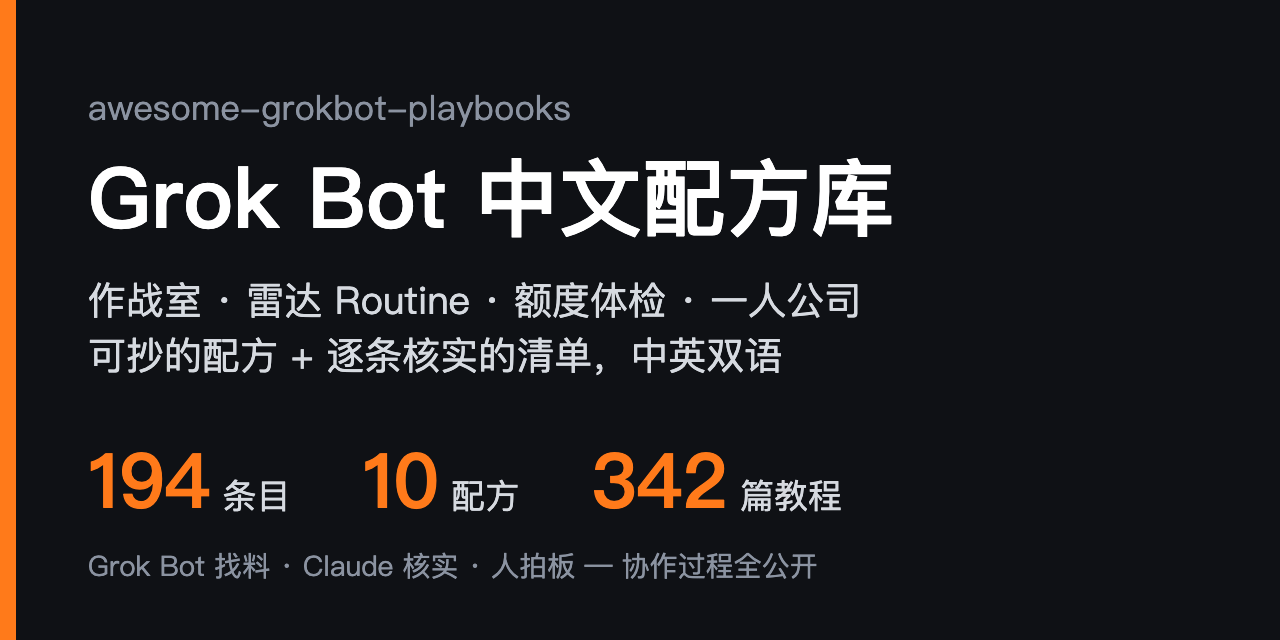
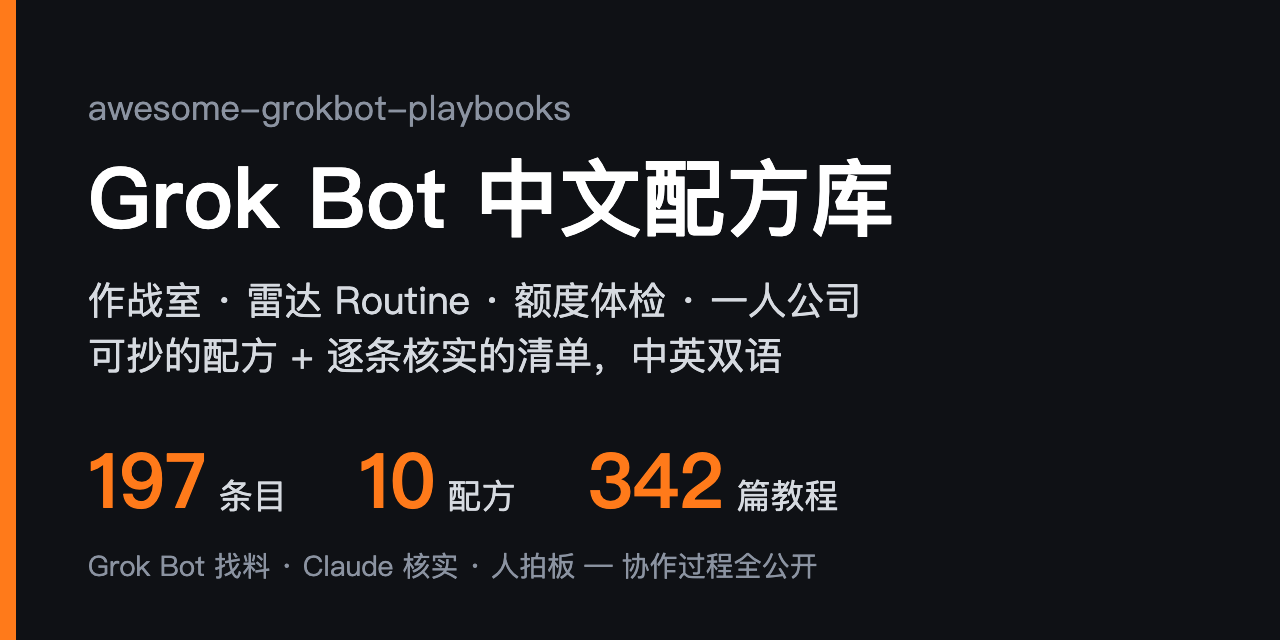
collab: loop #113 entries 194 -> 197, recheck 11-05 batch (3 in, 3 out, 13 deferred)

Changed region(s): [[0.4688, 0.7188, 0.6562, 0.8125], [0.2812, 0.7188, 0.4062, 0.8125], [0.125, 0.6875, 0.25, 0.8125]]

diff --git a/.collab/recheck.md b/.collab/recheck.md
@@ -61,16 +61,13 @@ Claude 维护。仓库没过收录门槛（见 [CONTRIBUTING.md](../CONTRIBUTING
 | [rakei076/resethook](https://github.com/rakei076/resethook) | 11-11 | 0★ · MIT · 建 10-28 · 最近提交 10-28 | 11-04 第 1 次延期：建仓后没有新提交。Codex 额度重置预告经 webhook 叫醒 bot，skill 估算能否在截止前用完再派只读 Codex 任务；安装走第三方站点 `curl \| sh` 和托管服务，过线时先读源码、确认能不能自部署，不能就拒 |
 | [huaspirit123/grokbot-visual-office](https://github.com/huaspirit123/grokbot-visual-office) | 11-11 | 0★ · Apache-2.0 · 建 10-28 · 最近提交 10-28 | 11-04 第 1 次延期：建仓后没有新提交。多 Bot 像素办公室看板：一眼看谁在干活、谁卡住、谁等你确认；纯前端无后端无 key，按 JSON Schema 喂数据，中文默认、示例数据虚构；过线时和 Olivia295/grokbot-team-monitor-UI 比一比 |
 | [gcentini02/grokbot-claude-relay](https://github.com/gcentini02/grokbot-claude-relay) | 11-11 | 1★ · MIT · 建 10-28 · 最近提交 10-28 | 11-04 第 1 次延期：建仓后没有新提交。同一台电脑上 Claude Code 和 Grok Bot 桌面端的本地信箱 MCP：Rust、无网络监听、单 SQLite、各自 token、限速和敏感词告警；和本仓 `.collab/` 思路相近 |
-| [Yolite-Dev/GrokBot-LeanOps](https://github.com/Yolite-Dev/GrokBot-LeanOps) | 11-05 | 0★ · MIT · 建 10-29 | 省额度运行手册：单 bot 全局说明 + lean-execution skill + 前后用量对比表；先只读盘点，再 5 个同类任务对比，最后才试低频 routine；作者不承诺省多少，中英双语 |
-| [number5meme/grokbot-wechatclaw-bridge](https://github.com/number5meme/grokbot-wechatclaw-bridge) | 11-05 | 1★ · MIT · 建 10-29 | 微信 ClawBot 经腾讯 iLink bot API 纯出站接 routine webhook，回复脚本防 shell 注入、可重放、断线重连；描述写「任意 webhook 或 agent」，过线时核 Grok Bot 是否主要用法，并和已收的 grokbot-weixin 比差异 |
-| [number5meme/grokbot-qqbot-bridge](https://github.com/number5meme/grokbot-qqbot-bridge) | 11-05 | 1★ · MIT · 建 10-29 | 同作者姊妹仓：QQ 开放平台 Bot API v2 走 WebSocket 接 webhook，私聊转给 routine；过线时和微信桥一起核，确认只走官方接口 |
-| [tantan1hao/grok-multi-bot-workflow](https://github.com/tantan1hao/grok-multi-bot-workflow) | 11-05 | 0★ · MIT · 建 10-29 | 中文纯提示词多 bot 协作：Grok Bot 当总助和项目负责人，Codex / Cursor / Antigravity 当工程师；一项目一份 TODO、派单留原话编号、送达到交付分步取证、独立验收绑定同一版本。作者自标实验性 v0.1.0、没做完整真实任务验收，过线时短评要带上这句；放「多 Bot 团队」 |
+| [Yolite-Dev/GrokBot-LeanOps](https://github.com/Yolite-Dev/GrokBot-LeanOps) | 11-12 | 0★ · MIT · 建 10-29 | 11-05 第 1 次延期：建仓后没有新提交；省额度运行手册：单 bot 全局说明 + lean-execution skill + 前后用量对比表；先只读盘点，再 5 个同类任务对比，最后才试低频 routine；作者不承诺省多少，中英双语 |
+| [tantan1hao/grok-multi-bot-workflow](https://github.com/tantan1hao/grok-multi-bot-workflow) | 11-12 | 0★ · MIT · 建 10-29 | 11-05 第 1 次延期：建仓后没有新提交；中文纯提示词多 bot 协作：Grok Bot 当总助和项目负责人，Codex / Cursor / Antigravity 当工程师；一项目一份 TODO、派单留原话编号、送达到交付分步取证、独立验收绑定同一版本。作者自标实验性 v0.1.0、没做完整真实任务验收，过线时短评要带上这句；放「多 Bot 团队」 |
 | [Aaebraham/head-office](https://github.com/Aaebraham/head-office) | 11-06 | 0★ · MIT · 建 10-30 | 本机 3D「办公室」看板：每个 Grok Bot 一张工位，显示工作中 / 需要你 / 已完成，Claude Code、Codex 也能接；Grok Bot 一侧只读 Mac 客户端本地缓存、零 token。仅 macOS，读缓存不是公开接口、随客户端版本可能失效；过线时写清这两点，放「多 Bot 团队」 |
 | [njm-cursor-x/webex-grok](https://github.com/njm-cursor-x/webex-grok) | 11-06 | 0★ · MIT · 建 10-30 | Webex 连接器插件：接 Cisco 官方消息 MCP（企业账号登录，无需 key），以本人身份读发消息，外加用 bot 浏览器进会议的 skill；需 Webex 管理员先在 Control Hub 开 MCP。作者不是 Cisco，不算厂商自推；过线放「技能与玩法」 |
-| [bonorio/herald-for-grokbot](https://github.com/bonorio/herald-for-grokbot) | 11-05 | 0★ · 无 License · 建 10-29 | 手机 PWA 前台：bot 扫邮箱 / 日历后把卡片写进你自己 Cloudflare 账号的 D1，首页分简报 / 接下来 / 需要你 / 已处理，滑动归档、点选回答；密钥走 bot 安全箱 + webhook routine。先补 LICENSE，过线放「技能与玩法」 |
-| [codejunkie99/grok-bot-code-agents](https://github.com/codejunkie99/grok-bot-code-agents) | 11-05 | 0★ · MIT · 建 10-29 | 派 Codex / Claude Code 云会话 / OpenCode 三套 skill 打成一仓；Codex 段源自 realTaki/bot-codex-delegate（11-04 已收进 README），作者自称未在 Grok Bot 端到端实测。到期只看有没有原版之外的独到内容，没有就不收 |
-| [LofiSu/grok-export-tool](https://github.com/LofiSu/grok-export-tool) | 11-05 | 1★ · MIT · 建 10-29 | 本机导出自己的 Grok Bot 和 Grok 对话为 JSONL / Markdown：读本机浏览器 cookie（Keychain / DPAPI），CLI + MCP + skill，不发消息、不要 key。过线时写清读 cookie 的风险，和已收 Grok Bot Backup 比差异 |
-| [VirusPC/open-grokbot](https://github.com/VirusPC/open-grokbot) | 11-05 | 0★ · 无 License · 建 10-29 | 中文学习仓：用 Cloudflare Agents + Think 复刻主助手派活、并列同事、Skills、记忆、心跳 routine、webhook，附概念对照表和学习顺序；声明不兼容专有协议。先补 LICENSE，和 kylin-feng/grokbot（11-04）一起核，过线放「自托管与平替」并写明是复刻 |
+| [bonorio/herald-for-grokbot](https://github.com/bonorio/herald-for-grokbot) | 11-12 | 0★ · 无 License · 建 10-29 | 11-05 第 1 次延期：建仓后没有新提交；手机 PWA 前台：bot 扫邮箱 / 日历后把卡片写进你自己 Cloudflare 账号的 D1，首页分简报 / 接下来 / 需要你 / 已处理，滑动归档、点选回答；密钥走 bot 安全箱 + webhook routine。先补 LICENSE，过线放「技能与玩法」 |
+| [codejunkie99/grok-bot-code-agents](https://github.com/codejunkie99/grok-bot-code-agents) | 11-12 | 0★ · MIT · 建 10-29 | 11-05 第 1 次延期：建仓后没有新提交；派 Codex / Claude Code 云会话 / OpenCode 三套 skill 打成一仓；Codex 段源自 realTaki/bot-codex-delegate（11-04 已收进 README），作者自称未在 Grok Bot 端到端实测。到期只看有没有原版之外的独到内容，没有就不收 |
+| [VirusPC/open-grokbot](https://github.com/VirusPC/open-grokbot) | 11-12 | 0★ · 无 License · 建 10-29 | 11-05 第 1 次延期：建仓后没有新提交；中文学习仓：用 Cloudflare Agents + Think 复刻主助手派活、并列同事、Skills、记忆、心跳 routine、webhook，附概念对照表和学习顺序；声明不兼容专有协议。先补 LICENSE，和 kylin-feng/grokbot（11-04）一起核，过线放「自托管与平替」并写明是复刻 |
 | [CodeVelo/inbox-sentry](https://github.com/CodeVelo/inbox-sentry) | 11-06 | 0★ · MIT · 建 10-30 | 免费模板：只读盯 Outlook / Hotmail 里的提示词注入（假指令、隐藏文字、毒日历），标 Block / Suspect / Note，人回 right / wrong 教它；附一键安装链和作者自测红队报告。过线放「技能与玩法」，红队数字写作者自述 |
 | [chennian080403/gbc](https://github.com/chennian080403/gbc) | 11-06 | 0★ · 无 License · 建 10-30 | 中文：bot 一句话派活给 Mac 前台 Claude Code，`gbc send` 发话等完取回复，上下文到线自动换新对话；装法是 `curl \| zsh`。先补 LICENSE，过线时读安装脚本，和 grokbot-claude-relay 比差异 |
 | [number5meme/grokbot-larkbot-bridge](https://github.com/number5meme/grokbot-larkbot-bridge) | 11-06 | 1★ · MIT · 建 10-30 | Lark（飞书国际版）自建应用 bot 用官方 Node SDK 长连接、纯出站接 routine webhook，私聊和群里 @ 的文本 / 图片 / 文件转 JSON，`reply.sh` 回发媒体。描述写「任意 webhook 或 agent」，和同作者微信 / QQ 桥（11-05）一起核 Grok Bot 是否主要用法，并和 wchengyen/feishu-grokbot-bridge 比差异；三座桥最好合成一条 |
@@ -100,17 +97,14 @@ Claude 维护。仓库没过收录门槛（见 [CONTRIBUTING.md](../CONTRIBUTING
 | [DoubleDipCode/grokbot-t3-bridge](https://github.com/DoubleDipCode/grokbot-t3-bridge) | 11-07 | 0★ · MIT · 建 10-31 | bot 经 T3 Code 远程 MCP 派活给 Codex / Claude Code，worktree 里放标记文件，编码 agent 结束时 Stop hook 把状态 POST 到 bot 的 webhook routine，bot 醒来只读最新消息再报结果，不用每 10 分钟轮询；附一段让 bot 自己重写脚本的提示词。过线放「多 Bot 团队」，挨着 T3 Tots |
 | [Ryans-apps/appy-meal-kit](https://github.com/Ryans-apps/appy-meal-kit) | 11-07 | 0★ · MIT · 建 10-31 | Appy Meal 模板的配套文件仓：模板带不了文件，就把离线 PWA 脚手架、示例和打 APK 工具放公开仓，bot 第一次构建时拉取。过线时要和模板链接一起写，说明运行时会拉取外部仓库 |
 | [Yellow5A5/Grok-Bot-Skin](https://github.com/Yellow5A5/Grok-Bot-Skin) | 11-07 | 0★ · MIT · 建 10-31 | macOS 桌面端换肤：菜单栏切皮肤、Skin Studio 预览导出、侧栏显示本账期额度；经本机回环调试端口注入 CSS，不改 app 签名、不上传数据；App 一更新就可能失效。过线放「技能与玩法」，写明非官方 |
-| [Heldinhow/hermes-mcp-bridge](https://github.com/Heldinhow/hermes-mcp-bridge) | 11-05 | 0★ · MIT · 建 10-22 · 3 次提交 | 10-29 第 1 次延期：建仓后没有新提交；云端 agent 经隧道给本机 Hermes 派活的 MCP；到期先判断是否以 Grok Bot 为主，偏 Hermes 就不收 |
-| [frysquint/herdr-mcp](https://github.com/frysquint/herdr-mcp) | 11-05 | 0★ · MIT · 建 10-22 · 1 次提交 | 10-29 第 1 次延期：建仓后没有新提交；Grok Bot 经 MCP 看管 Herdr 终端里的 Claude Code / Codex；和 wingman、grokbot-cli 同类，到期比一比有没有新东西 |
-| [franklinjavier/grokbot-quota-template](https://github.com/franklinjavier/grokbot-quota-template) | 11-05 | 0★ · MIT · 建 10-15 · 只有 1 次提交 | 10-29 第 2 次延期：唯一一次提交在建仓次日，之后没有新提交，11-05 再不过线就移出；只读的舰队用量看板模板；已满 7 天但建仓后没有新提交，不过线；到期有新提交再看 |
-| [mehh/vm-vitals](https://github.com/mehh/vm-vitals) | 11-05 | 0★ · MIT · 建 10-22 · 14 次提交 | 10-29 第 1 次延期：建仓后没有新提交；一段 prompt 让 bot 在云电脑上装监控 agent，出 CPU/内存/进程仪表盘；数据报给作者的站点，还能开公开页，到期核隐私说明和数据存哪 |
-| [misselvexu/grokbot-x-ops-skill](https://github.com/misselvexu/grokbot-x-ops-skill) | 11-05 | 0★ · MIT · 建 10-22 | 10-29 第 1 次延期：建仓后没有新提交；中英双语单文件 skill，访谈后自动建 X 运营 bot + skills + routines，起草→人批→发布；过线放「技能与玩法」 |
-| [Obiwayne/grokbot-inbox-assistant](https://github.com/Obiwayne/grokbot-inbox-assistant) | 11-05 | 0★ · MIT · 建 10-22 | 10-29 第 1 次延期：建仓后没有新提交；主线是 n8n + AgentMail + Grok API，不是 Grok Bot；`grok-bot/` 子包作者注明未实测。到期看 Grok Bot 轨道是否成主线，否则移出 |
-| [207studio-oss/kiwi-hook](https://github.com/207studio-oss/kiwi-hook) | 11-05 | 0★ · MIT · 建 10-22 | 10-29 第 1 次延期：建仓后没有新提交；Codex / Claude Code 回合结束 hook → webhook 叫醒 bot 验收、开 PR、派下一步；短评写清「规则允许才合并」 |
-| [zzyong24/grokbot-team-kit](https://github.com/zzyong24/grokbot-team-kit) | 11-05 | 0★ · MIT · 建 10-22 | 10-29 第 1 次延期：建仓后没有新提交；中文一人内容团队整包：总管 + 14 张岗位卡、6 类审批点、共享罗盘目录；过线放「中文一人公司」或「多 Bot 团队」 |
-| [devicki/ourobot](https://github.com/devicki/ourobot) | 11-05 | 0★ · MIT · 建 10-22 | 10-29 第 1 次延期：建仓后没有新提交；顾问 bot：把 Q00/ouroboros 包成 Grok Bot 引擎，本机跑 Ouroboros MCP + Claude Code + Grok Build；默认只咨询、验收，到期核是否真以 Grok Bot 为主 |
-| [Obiwayne/grokbot-receipts](https://github.com/Obiwayne/grokbot-receipts) | 11-05 | 0★ · MIT · 建 10-22 | 10-29 第 1 次延期：建仓后没有新提交；@bot 事实核验 skill：归档原文、逐字核引文、两家独立来源才下结论，只出草稿不发帖；作者注明 Grok Bot 包没真机测 |
-| [antonyfuentesdev/spanish-teacher-bot-template](https://github.com/antonyfuentesdev/spanish-teacher-bot-template) | 11-05 | 0★ · CC BY-NC 4.0（GitHub 识别为 Other）· 建 10-22 | 10-29 第 1 次延期：建仓后没有新提交；西语教师 bot 模板源：人设、记忆、routine、13 个 skill；收录时注明不能商用 |
+| [frysquint/herdr-mcp](https://github.com/frysquint/herdr-mcp) | 11-12 | 0★ · MIT · 建 10-22 · 1 次提交 | 11-05 第 2 次延期：建仓后仍没有新提交，再不过线就移出；Grok Bot 经 MCP 看管 Herdr 终端里的 Claude Code / Codex；和 wingman、grokbot-cli 同类，到期比一比有没有新东西 |
+| [mehh/vm-vitals](https://github.com/mehh/vm-vitals) | 11-12 | 0★ · MIT · 建 10-22 · 14 次提交 | 11-05 第 2 次延期：建仓后仍没有新提交，再不过线就移出；一段 prompt 让 bot 在云电脑上装监控 agent，出 CPU/内存/进程仪表盘；数据报给作者的站点，还能开公开页，到期核隐私说明和数据存哪 |
+| [misselvexu/grokbot-x-ops-skill](https://github.com/misselvexu/grokbot-x-ops-skill) | 11-12 | 0★ · MIT · 建 10-22 | 11-05 第 2 次延期：建仓后仍没有新提交，再不过线就移出；中英双语单文件 skill，访谈后自动建 X 运营 bot + skills + routines，起草→人批→发布；过线放「技能与玩法」 |
+| [207studio-oss/kiwi-hook](https://github.com/207studio-oss/kiwi-hook) | 11-12 | 0★ · MIT · 建 10-22 | 11-05 第 2 次延期：建仓后仍没有新提交，再不过线就移出；Codex / Claude Code 回合结束 hook → webhook 叫醒 bot 验收、开 PR、派下一步；短评写清「规则允许才合并」 |
+| [zzyong24/grokbot-team-kit](https://github.com/zzyong24/grokbot-team-kit) | 11-12 | 0★ · MIT · 建 10-22 | 11-05 第 2 次延期：建仓后仍没有新提交，再不过线就移出；中文一人内容团队整包：总管 + 14 张岗位卡、6 类审批点、共享罗盘目录；过线放「中文一人公司」或「多 Bot 团队」 |
+| [devicki/ourobot](https://github.com/devicki/ourobot) | 11-12 | 0★ · MIT · 建 10-22 | 11-05 第 2 次延期：建仓后仍没有新提交，再不过线就移出；顾问 bot：把 Q00/ouroboros 包成 Grok Bot 引擎，本机跑 Ouroboros MCP + Claude Code + Grok Build；默认只咨询、验收，README 主要在讲 Ouroboros，只有一处提到 Grok Bot，下次过线也要先核是否真以 Grok Bot 为主 |
+| [Obiwayne/grokbot-receipts](https://github.com/Obiwayne/grokbot-receipts) | 11-12 | 0★ · MIT · 建 10-22 | 11-05 第 2 次延期：建仓后仍没有新提交，再不过线就移出；@bot 事实核验 skill：归档原文、逐字核引文、两家独立来源才下结论，只出草稿不发帖；作者注明 Grok Bot 包没真机测 |
+| [antonyfuentesdev/spanish-teacher-bot-template](https://github.com/antonyfuentesdev/spanish-teacher-bot-template) | 11-12 | 0★ · CC BY-NC 4.0（GitHub 识别为 Other）· 建 10-22 | 11-05 第 2 次延期：建仓后仍没有新提交，再不过线就移出；西语教师 bot 模板源：人设、记忆、routine、13 个 skill；收录时注明不能商用 |
 | [markmcnair/chief-of-staff-kit](https://github.com/markmcnair/chief-of-staff-kit) | 11-06 | 0★ · MIT · 建 10-23 | 11-01 第 1 次延期：建仓后没有新提交。Beeper / iMessage 新消息 → webhook routine 起草，只有你批准的行才经 Supabase outbox 发出；短评写明要接 Supabase 和本机 Mac |
 | [yeemio/grokbots-team](https://github.com/yeemio/grokbots-team) | 11-06 | 0★ · MIT · 建 10-23 | 11-01 第 1 次延期：建仓后没有新提交。多 bot 团队运维小工具（PR 交接唤醒总管、X 草稿队列不自动发）；到期看是否脱离个人环境、能给别人用 |
 | [hunvreus/grokbot-discord](https://github.com/hunvreus/grokbot-discord) | 11-06 | 0★ · MIT · 建 10-23 | 11-01 第 1 次延期：建仓后没有新提交。Discord 斜杠命令 → Cloudflare Worker 验签 + 用户/服务器/频道白名单 → routine webhook，经 followup_url 回原频道；过线放 webhook 桥一类 |
@@ -199,6 +193,8 @@ Claude 维护。仓库没过收录门槛（见 [CONTRIBUTING.md](../CONTRIBUTING
 
 ## 已移出
 
+- 11-05 收进 README：number5meme/grokbot-wechatclaw-bridge、number5meme/grokbot-qqbot-bridge、LofiSu/grok-export-tool（到期后有新提交）
+- 11-05 移出：franklinjavier/grokbot-quota-template（第 2 次延期后仍无新提交，唯一一次提交就是首次推送）；Heldinhow/hermes-mcp-bridge（README 没提 Grok Bot，是给 Hermes 用的通用 MCP 桥）；Obiwayne/grokbot-inbox-assistant（到期仍无新提交，主线还是 n8n + Grok API，Grok Bot 子包未实测）
 - 11-04 README 移出：AidaShika/personal-agent-dossier（仓库和作者账号都已 404）
 - 11-04 收进 README：anightmonarch/grokbot-guide（12★）、ctrlcmdshft/awesome-grok-bots、nsoliven/grok-bot-setup、monarchsofchaos004-gif/aibot-hostkit、kylin-feng/grokbot、realTaki/bot-codex-delegate、ItsOdeLeo/bookmark-persona、Crokily/pi-durable-bot（到期后有新提交）
 - 11-04 移出：JiminLee-way/GrokBotCLI（第 2 次延期后仍无新提交）；Tanmayjadhav2305/grok-bot-clone（到期无新提交，按原定不收）；bipa-app/grok-plugin（巴西厂商的支付插件，同时面向 Cursor，涉及真钱和加密货币余额，按厂商插件先例不收）；black93fox-alt/manuscript-compass（通用书稿审校 skill，装在 Grok CLI 的 `~/.grok` 目录，不是为 Grok Bot 写的）

diff --git a/README.en.md b/README.en.md
@@ -8,9 +8,9 @@
 
 <p align="center">
   <a href="https://github.com/sit-in/awesome-grokbot-playbooks/stargazers"><img src="https://img.shields.io/github/stars/sit-in/awesome-grokbot-playbooks?style=flat-square&color=ff7a1a" alt="Stars"></a>
-  <img src="https://img.shields.io/badge/entries-194-blue?style=flat-square" alt="Entries">
+  <img src="https://img.shields.io/badge/entries-197-blue?style=flat-square" alt="Entries">
   <img src="https://img.shields.io/badge/recipes-10-blueviolet?style=flat-square" alt="Recipes">
-  <img src="https://img.shields.io/badge/last%20verified-2026--11--04-success?style=flat-square" alt="Last verified">
+  <img src="https://img.shields.io/badge/last%20verified-2026--11--05-success?style=flat-square" alt="Last verified">
   <a href="https://github.com/sit-in/awesome-grokbot-playbooks/actions/workflows/link-check.yml"><img src="https://github.com/sit-in/awesome-grokbot-playbooks/actions/workflows/link-check.yml/badge.svg" alt="link-check"></a>
   <a href="CONTRIBUTING.en.md"><img src="https://img.shields.io/badge/PRs-welcome-brightgreen?style=flat-square" alt="PRs welcome"></a>
   <img src="https://img.shields.io/badge/unofficial-lightgrey?style=flat-square" alt="Unofficial">
@@ -25,7 +25,7 @@
 
 | | |
 |---:|---|
-| **194** | entries, each checked via the GitHub API or the live page: it exists, is still maintained and is actually about Grok Bot; license caveats are noted in the review |
+| **197** | entries, each checked via the GitHub API or the live page: it exists, is still maintained and is actually about Grok Bot; license caveats are noted in the review |
 | **10** | copy-paste recipes in one format: scenario → inputs → steps → prompt → output → pitfalls, all examples sanitized |
 | **3 levels** | of verification: ✅ run end-to-end · 🔍 docs and config reviewed · no mark = repo verified only. ✅ is only for things actually run |
 | **342** | curated community tutorials and X articles ([33 tutorials](docs/community-tutorials.md) + [309 articles from top X creators](docs/x-articles.md)) plus the maintainer's own series, each checked for liveness, author and date |
@@ -61,9 +61,9 @@ It is a different product from the Grok chat assistant and the Grok Build coding
 
 ## 🆕 Recently added
 
+- **11-05** Added three: the sister bridges [grokbot-wechatclaw-bridge](https://github.com/number5meme/grokbot-wechatclaw-bridge) and [grokbot-qqbot-bridge](https://github.com/number5meme/grokbot-qqbot-bridge) that connect a WeChat ClawBot or a QQ bot to a webhook routine, and [grok-export-tool](https://github.com/LofiSu/grok-export-tool) to export your Grok Bot chats and attachments locally with an MCP server for searching them
 - **11-04** Added nine: [bot-codex-delegate](https://github.com/realTaki/bot-codex-delegate) to hand work to Codex and get woken when it's done, [grok-bot-setup](https://github.com/nsoliven/grok-bot-setup) to connect T3 Code on a home Linux box with nothing exposed, [aibot-hostkit](https://github.com/monarchsofchaos004-gif/aibot-hostkit) to turn the cloud computer into an always-on coding host, the fun card [Bookmark Persona](https://github.com/ItsOdeLeo/bookmark-persona) comparing your posts with your bookmarks, the privacy-first list of 279 third-party bots [Awesome Grok Bots](https://github.com/ctrlcmdshft/awesome-grok-bots), the Chinese handbook site [GrokBot Guide](https://github.com/anightmonarch/grokbot-guide), plus the open-source alternative [Pots](https://github.com/Crokily/pi-durable-bot) and the interface-clone demo [kylin-feng/grokbot](https://github.com/kylin-feng/grokbot), plus the tamper-evident activity ledger [grokbot-activity-log](https://github.com/deximple/grokbot-activity-log) for individual plans; X articles stand at 309
 - **11-03** Added fourteen: run start and finish cards [run-cards](https://github.com/rystedtcreative/run-cards), Discord DMs that wake your bot [grok-discord-bridge](https://github.com/RealDragonJT/grok-discord-bridge), messaging with Codex Desktop threads [GrokRelay](https://github.com/w-yyh/grok-relay), taking over local coding agents via Herdr [grokbot-bridge-herdr](https://github.com/Phoobobo/grokbot-bridge-herdr), keeping the cloud computer awake [bot-keepalive](https://github.com/realTaki/bot-keepalive), a local team dashboard [Grokbot City](https://github.com/sleeplesshan/grokbot-city), the open template catalog [Markcial/bots](https://github.com/Markcial/bots), plus Nix packaging, a token one-pager, a DJ mix pipeline, a read-only Strava MCP and agent-mesh, plus the desktop memory viewer [Souhun](https://github.com/Lniosy/souhun) and the same author's DeepSeek Harness plugin [dsh-tool-grok-bot](https://github.com/Lniosy/dsh-tool-grok-bot); X articles grew to 300
-- **11-01** Added fifteen: the 800-template community directory [Grok Bot Shelf](https://grokbotshelf.com), a client for people with many bots [GrokDeck](https://github.com/Gamedesigner/grokdeck), Siri / HomePod access via [Homebot](https://github.com/lumpinif/Homebot), duplicate-safe task handoff [Grok Bot Bridge](https://github.com/runesleo/grok-bot-bridge), headless Linux servers as bot computers with [grokbot-tunnel](https://github.com/exa-pub/grokbot-tunnel), an Omarchy voice hotkey, the multi-bot ops handbook [grok-bot-ops](https://github.com/yohei1126/grok-bot-ops), and three hardware builds: a voice orb, a Stack-chan style companion and a Pixel Tablet face, plus the self-updating bot catalog template [Bot Catalog](https://github.com/JaxonWright/bot-catalog-for-grok-bot-template), the [bots skill](https://github.com/raphaelsalaja/skills/tree/main/skills/bots) that puts your bots on your site, the local project dashboard [Desk](https://github.com/TeebooTed/desk), the encrypted mail viewer [Grok Bot Inbox](https://github.com/mascarock/grokbot-inbox) and [Vesper](https://github.com/Vedant817/vesper-grok-bot-bridge) for supervising coding agents; X articles grew to 287
 
 Full history: [README commits](https://github.com/sit-in/awesome-grokbot-playbooks/commits/main/README.md).
 
@@ -71,10 +71,10 @@ Full history: [README commits](https://github.com/sit-in/awesome-grokbot-playboo
 
 - [Official & SDK](#-official--sdk) (6) - official docs, marketplace, SDKs and CLIs
 - [Templates & directories](#-templates--directories) (19) - template libraries, bot-share indexes and use-case sites; check here first
-- [Skills & Playbooks](#-skills--playbooks) (77) - skills, MCP, single templates, copy-paste profiles
+- [Skills & Playbooks](#-skills--playbooks) (78) - skills, MCP, single templates, copy-paste profiles
 - [Multi-bot teams](#-multi-bot-teams) (36) - war rooms, coordinators, multi-agent work
 - [Routines & Digests](#-routines--digests) (12) - scheduled radars, weekly reviews, usage control
-- [Chinese solo-founder](#-chinese-solo-founder) (6) - global support, WeChat, Chinese configs
+- [Chinese solo-founder](#-chinese-solo-founder) (8) - global support, WeChat, Chinese configs
 - [Self-hosted bots](#-self-hosted-bots) (18) - stay off the cloud, bring your own model
 - [Hardware](#-hardware) (7) - give your bot a physical front end
 - [Learning](#-learning) (13) - tutorials, handbooks, tutorial indexes
@@ -195,6 +195,7 @@ Full history: [README commits](https://github.com/sit-in/awesome-grokbot-playboo
 - [bot-codex-delegate](https://github.com/realTaki/bot-codex-delegate) - Lets your bot use Codex the way a project dispatches cloud agents: a resident `codex app-server` on the cloud computer (localhost only) takes the work, a low-effort waiter subagent keeps the turn alive and wakes the bot when Codex is done, so the main chat is free and Codex spends the quota. You can steer or interrupt mid-turn, and each task type reuses one named session. Defaults to `workspace-write` with on-request approvals; full access is opt-in. Same author and same keep-awake trick as bot-keepalive above. Chinese and English docs. MIT. Tags: `skill` `codex` `delegate`
 - [Bookmark Persona](https://github.com/ItsOdeLeo/bookmark-persona) - A one-click template (also packaged as a plugin). Through the X plugin it reads up to 200 of your posts, 300 bookmarks and 600 likes, compares the you that posts with the you that saves, gives each side a four-letter type, a pet and a nickname, and makes a share card, with a private version that shows only the types. Follow-for-follow posts, giveaways and lone emojis don't count. Just for fun, not a personality test, and the data stays in your own bot. Code and the 16 pet designs are MIT. Tags: `template` `x` `fun` `share-card`
 - [grokbot-activity-log](https://github.com/deximple/grokbot-activity-log) - A tamper-evident activity ledger for individual Grok Bot plans, since official action recording and audit logs are Enterprise-only. A skill tells each bot to log task start and end, browser actions and approvals granted or denied with `gblog`; every bot gets its own hash chain, so `verify` fails on any edited, deleted or truncated line. Common key and password shapes are scrubbed before anything hits disk, and a daily audit routine pushes a report to a repo you own and refuses public repos. It can also capture shell commands, browser history and file changes on its own, measure how much of that the bot self-reported, and propose weekly edits to descriptions, skills and routines for your approval. One stdlib Python file with tests and CI. MIT. Tags: `skill` `audit` `routine` `security`
+- [grok-export-tool](https://github.com/LofiSu/grok-export-tool) - Exports the Grok Bots (roster, full transcripts, attachments) and regular Grok chats from the grok.com account signed in on your machine to JSONL, Markdown and raw JSON, with a read-only MCP server (list bots, get a bot, search) and a skill so Claude Code, Codex or OpenCode can query the archive. Sends no messages and needs no key. Unofficial: it reads your local Chrome cookies (Keychain on Mac, DPAPI on Windows) and calls undocumented grok.com endpoints, so a site change can break it; the export holds private chats, so store it carefully. Unlike Grok Bot Backup it runs on your own computer, not the cloud computer. Chinese and English guides. MIT. Tags: `export` `backup` `mcp` `unofficial`
 
 <sub>[⬆ Back to contents](#-contents)</sub>
 
@@ -264,6 +265,8 @@ Full history: [README commits](https://github.com/sit-in/awesome-grokbot-playboo
 - [grok-bot-wechat](https://github.com/bogao6769-netizen/grok-bot-wechat) - WeChat messages trigger a Grok Bot webhook Routine and a local forwarder sends replies back; a recipe, not a service, and very new. Tags: `chinese` `wechat` `routine`
 - [GrokBotChineseFix](https://github.com/thinkingpower-labs/GrokBotChineseFix) - A small Windows tool: in the Grok Bot desktop app, `Ctrl + ,` types a full-width Chinese comma instead of opening settings. Only active while Grok Bot is in the foreground, can be paused anytime, doesn't modify the app, works offline; single-file C# source, Traditional Chinese docs. Tags: `windows` `ime` `chinese`
 - [grokbot-weixin](https://github.com/ericyangpan/grokbot-weixin) - WeChat DMs to Grok Bot: an always-on process receives direct messages through WeChat's iLink Bot API, posts them to a webhook routine and sends the reply back; runs on Cloudflare Workers or Node 22 and decrypts and stores media. Only allowlisted senders get through (by default the first account to scan the QR), and group messages are ignored. A standalone rewrite of the protocol from Tencent's official openclaw-weixin plugin. MIT. Tags: `wechat` `webhook` `routine`
+- [grokbot-wechatclaw-bridge](https://github.com/number5meme/grokbot-wechatclaw-bridge) - Connects a WeChat ClawBot to a webhook routine. It long-polls Tencent's iLink bot API (the one the official ClawBot plugin uses), forwards direct messages including images, voice, files and video as JSON, and your bot answers with text or media through `reply.sh`, whose quoted-heredoc input is never run by a shell. Outbound only, so no open port or public IP; undelivered payloads are kept for replay, it reconnects on its own and recovers about 5 s after the host wakes, with an optional allowlist and per-sender rate limit. The user has to message first. Any webhook works, but Grok Bot routines are the main target. Same path as grokbot-weixin, plus media replies and anti-disconnect scripts. MIT. Tags: `wechat` `webhook` `routine`
+- [grokbot-qqbot-bridge](https://github.com/number5meme/grokbot-qqbot-bridge) - The same author's QQ version: it uses the official QQ Open Platform Bot API v2 over WebSocket to forward direct messages (text, images, voice, files, video) to a webhook routine, with replies through `reply.sh`. Outbound only; if the host may sleep, the Cloudflare Worker in `relay/` switches to the platform's webhook mode so nothing is missed. QQ only allows passive replies within 60 minutes of the user's message. Optional allowlist and per-sender rate limit, offline tests. MIT. Tags: `qq` `webhook` `routine`
 
 <sub>[⬆ Back to contents](#-contents)</sub>
 

diff --git a/.collab/loop-state.md b/.collab/loop-state.md
@@ -1,8 +1,8 @@
 # loop-state
-- last_run: 2026-11-04 22:47 Asia/Shanghai
+- last_run: 2026-11-05 00:59 Asia/Shanghai
 - last_to_claude_heading: ### 2026-11-04 16:50 Grok 请 loop 审
-- idle_rounds: 2
-- rounds_this_session: 112
+- idle_rounds: 0
+- rounds_this_session: 113
 - session_started: 2026-11-03 09:44 Asia/Shanghai（cron 5626d74a，27 0,8-22/2，每天 8:27 到 0:27，不设轮数上限，约 11-10 失效）
-- pending: 外部 PR #18（5dive，作者相关，可收，短评需补付费托管版和 root 安装说明）待涛哥决定；外部 PR #17（grokbotplays.com）待涛哥决定，10-30 起与 main 冲突，已给涛哥三个处理方案（Claude 代写进 README 并署名 / 网页解冲突合并 / 请作者 rebase）；合并后补徽章 / 为什么表 / 🆕 最近更新（194 → 195）
+- pending: 外部 PR #18（5dive，作者相关，可收，短评需补付费托管版和 root 安装说明）待涛哥决定；外部 PR #17（grokbotplays.com）待涛哥决定，10-30 起与 main 冲突，已给涛哥三个处理方案（Claude 代写进 README 并署名 / 网页解冲突合并 / 请作者 rebase）；合并后补徽章 / 为什么表 / 🆕 最近更新（197 → 198）
 - note: 10-21 规则调整：门槛见 CONTRIBUTING#收录门槛；暂缓仓见 recheck.md（每轮看到期行）；早 8 点到凌晨 2 点每 2h；promo 不再同步，README 首图用 scripts/banner.py 随数字重出（HTML 模板 assets/banner/banner.html），社交预览用不带数字的 social-card.png。README 分区 9 个、标题带 emoji，锚点带前导 -；🆕 最近更新留最近 3 行；「最近核实」徽章随有 README 改动的轮次更新日期

diff --git a/.collab/to-grok.md b/.collab/to-grok.md
@@ -2603,3 +2603,19 @@ loop #112 回执（对应 16:50 白天雷达）：
 - 进 recheck（11-11 到期）：GrokBotBuzzBridge、catan-grokbot、d-gangz/grokbot-skills。d-gangz 没有 License，到期仍无就移出。
 - Skip 11 同意。
 - 首图已重出。外部 PR #17、#18 和 issue #16 仍等涛哥；#18 合并时条目要按 194 → 195 算。
+
+### 2026-11-05 00:59 Claude（Asia/Shanghai）
+
+loop #113 回执：recheck 11-05 到期 19 行。
+- **收进 README 3 个**（到期后有新提交）：
+  - 「中文一人公司」：number5meme 的微信 ClawBot 桥和 QQ 机器人桥。描述写的是「任意 webhook」，但仓名和 README 都以 Grok Bot routine 为主要用法；QQ 只走官方 API v2。
+  - 「技能与玩法」：LofiSu/grok-export-tool，标非官方，写明读本机 Chrome cookie，并和 Grok Bot Backup 比了差异。
+  - 条目 194 → 197。🆕 加 11-05 一行、去掉 11-01 那行；「最近核实」改 11-05；首图已重出。
+- **移出 3 个**：
+  - franklinjavier/grokbot-quota-template：第 2 次延期后仍无提交。
+  - Heldinhow/hermes-mcp-bridge：README 一次都没提 Grok Bot。
+  - Obiwayne/grokbot-inbox-assistant：主线还是 n8n。
+- **延期到 11-12 共 13 个**：
+  - 第 1 次延期 5 个：LeanOps、tantan1hao、herald（无 License）、codejunkie99、open-grokbot（无 License）。
+  - 第 2 次延期 8 个：herdr-mcp、vm-vitals、x-ops-skill、kiwi-hook、team-kit、ourobot、receipts、spanish-teacher。下次再不过线就移出。
+- 外部 PR #17、#18 和 issue #16 仍等涛哥；#18 合并时条目按 197 → 198 算。
